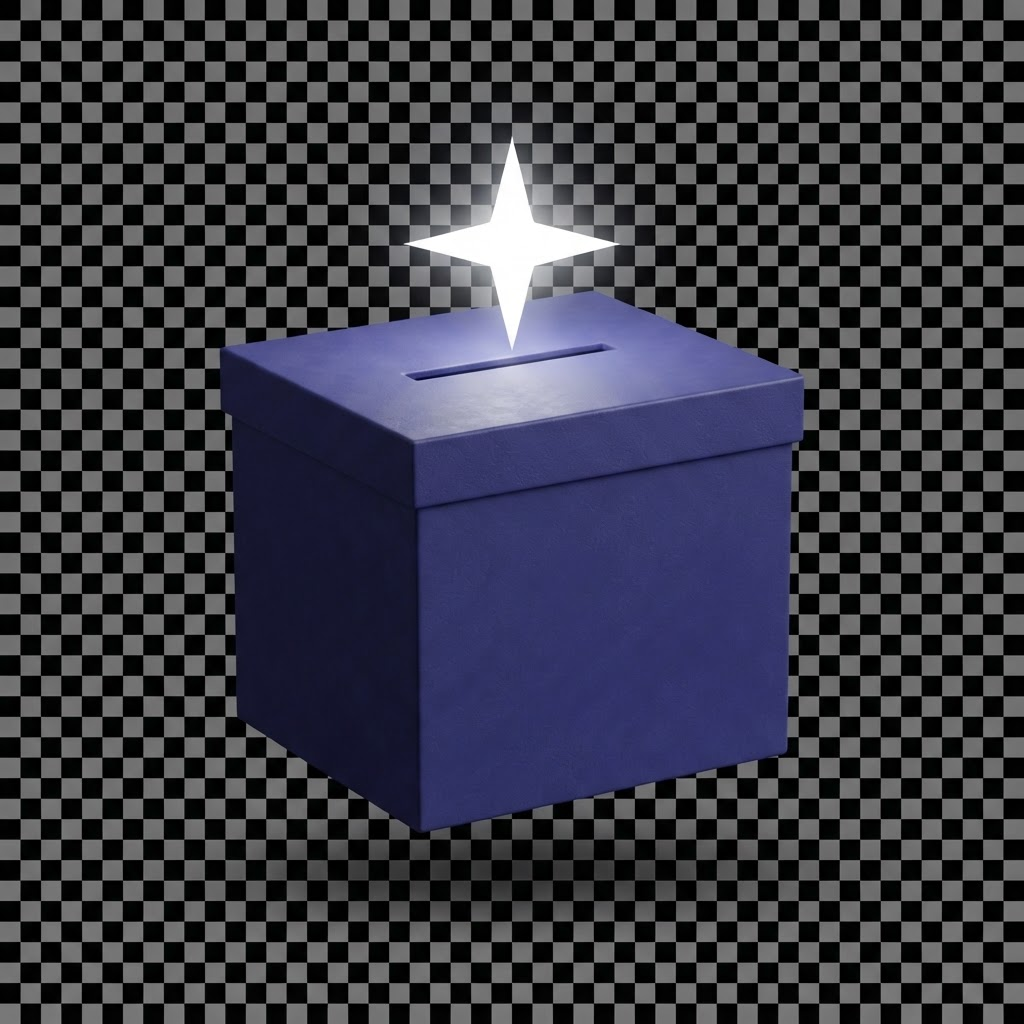
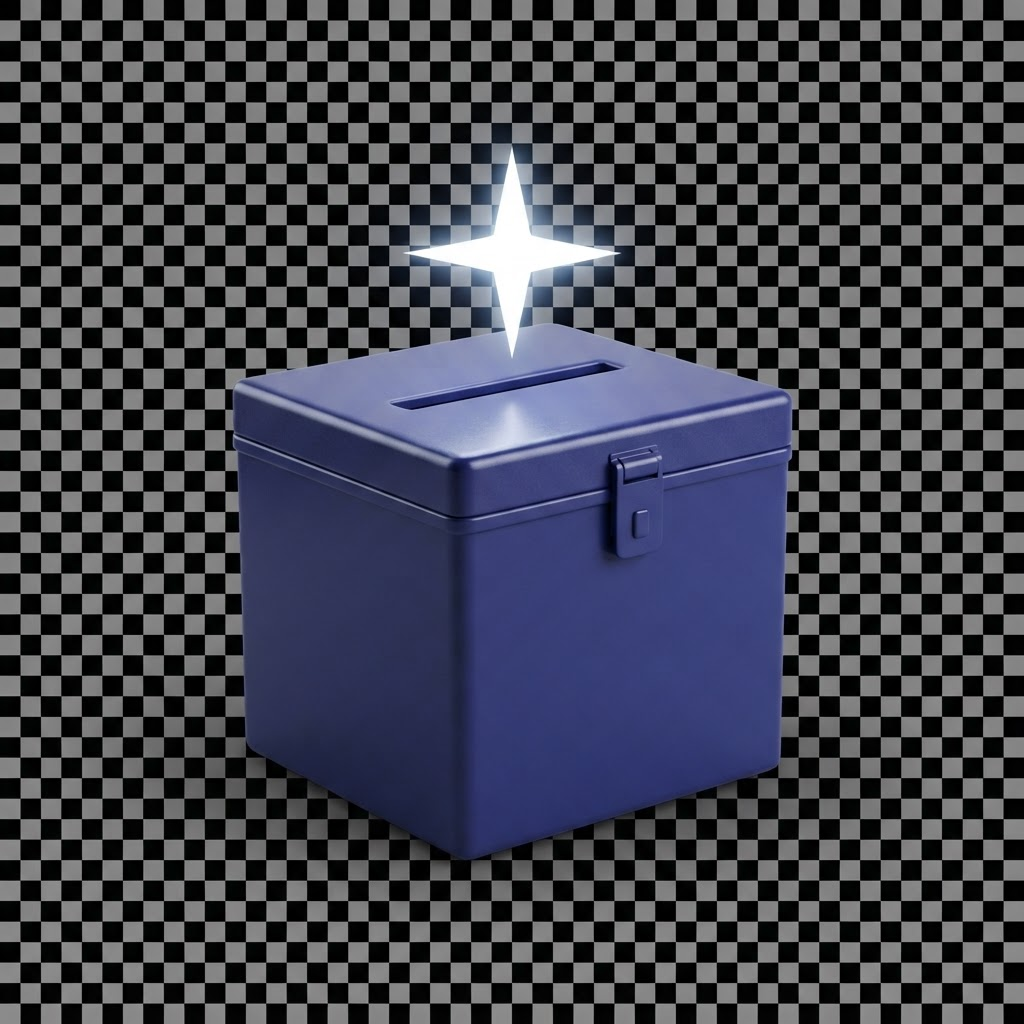
feat: adjust image size and remove shadow for landing page animation

Changed region(s): [[0.1562, 0.125, 0.8438, 0.9375], [0.875, 0.5312, 0.9062, 0.5625]]

diff --git a/app/page.tsx b/app/page.tsx
@@ -98,14 +98,14 @@ export default function LandingPage() {
             initial={{ scale: 0.8, opacity: 0 }}
             animate={{ scale: 1, opacity: 1 }}
             transition={{ duration: 0.45, delay: 0.05 }}
-            className="w-20 h-20 mb-4 drop-shadow-lg"
+            className="mb-2"
           >
             <Image
               src="/images/voterai-icon-final.png"
               alt="VoterAI icon"
-              width={80}
-              height={80}
-              className="w-full h-full object-contain"
+              width={120}
+              height={120}
+              className="object-contain"
               priority
             />
           </motion.div>
